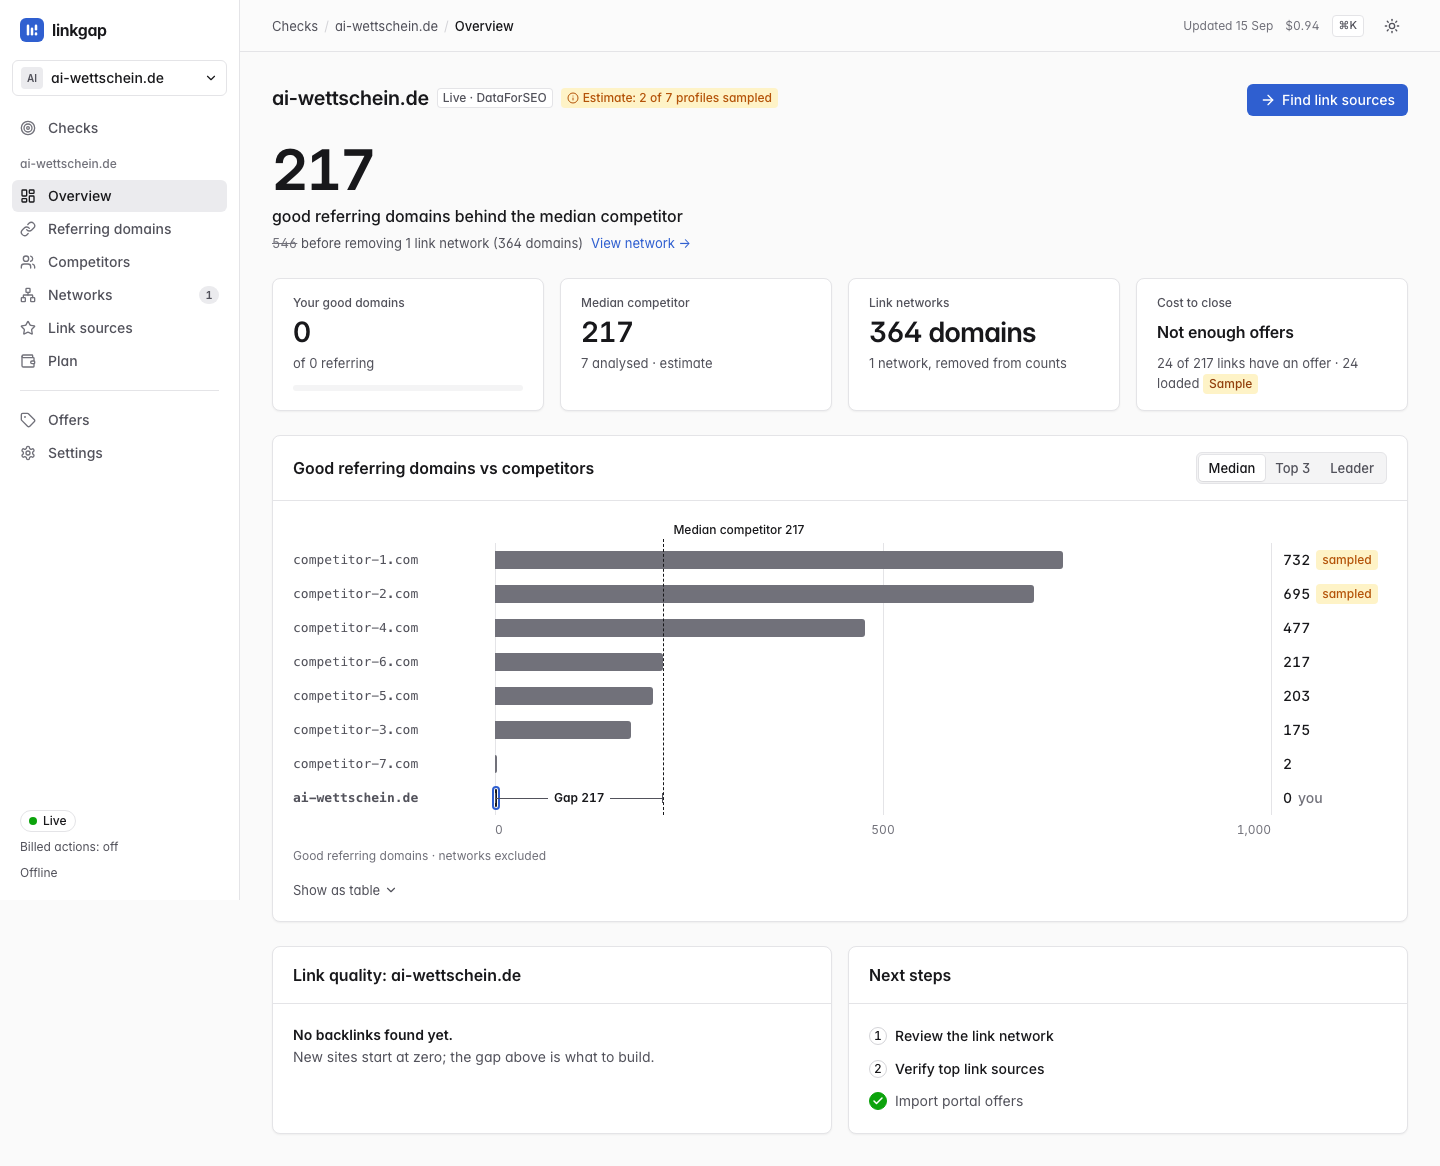
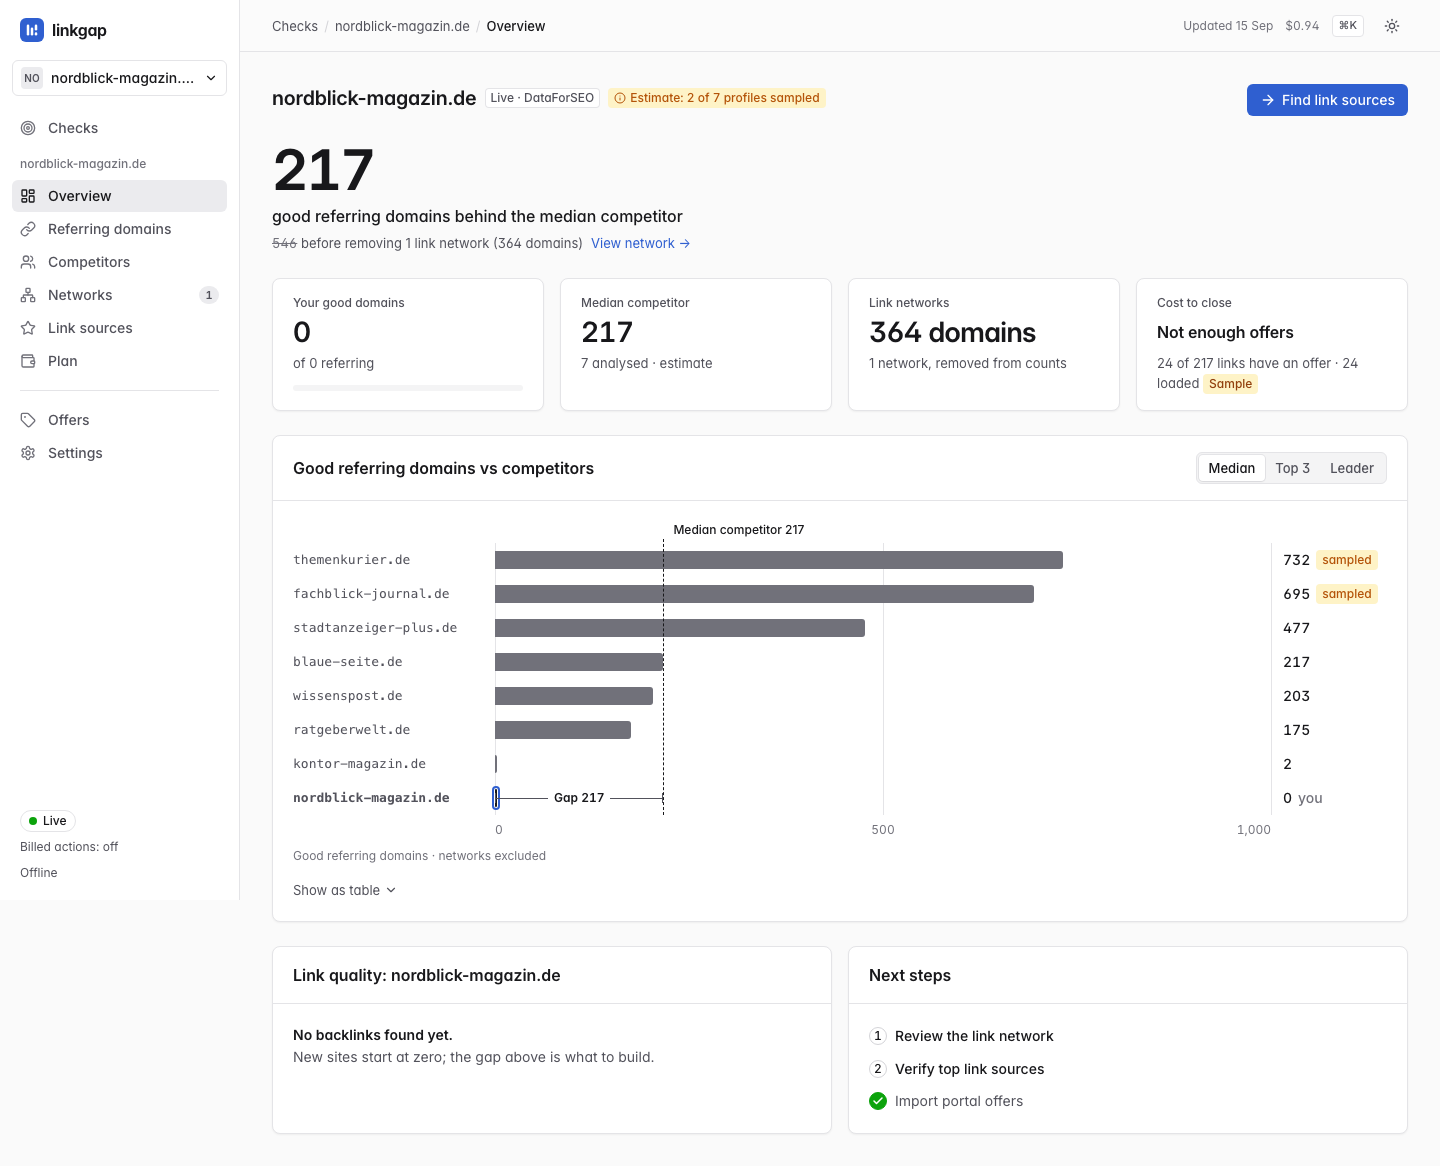
Anonymous case study: invented names, no niche wording
Claude-Session: https://claude.ai/code/session_012yyshPtUyHD4xxq4cyuqhN

diff --git a/index.html b/index.html
@@ -79,9 +79,9 @@
         </li>
       </ul>
       <p class="facts-caption">
-        Measured on the author's own site, ai&#8209;wettschein.de, a German football-predictions site
-        that launched on 10 September 2026 with zero backlinks. Every number on this page comes from
-        that run.
+        Measured on the author's own site, a real site that launched in September 2026 with zero backlinks.
+        Every number on this page comes from that run. Site and domain names in the screenshots are
+        fictional, so nobody's profile is on display here; nothing else was changed.
       </p>
 
       <figure class="shot shot-hero">
@@ -158,7 +158,7 @@
             <picture>
               <source srcset="img/checks-dark.png" media="(prefers-color-scheme: dark)">
               <img src="img/checks-light.png" width="1440" height="900" loading="lazy" decoding="async"
-                   alt="The linkgap checks screen with a four-step setup checklist at three of four, a new check card, and two project cards: ai-wettschein.de showing gap 217, 0 good domains, 7 competitors and a 1 link network warning, and lowveld-travel.de carrying an amber Sample badge.">
+                   alt="The linkgap checks screen with a four-step setup checklist at three of four, a new check card, and two project cards: nordblick-magazin.de showing gap 217, 0 good domains, 7 competitors and a 1 link network warning, and lowveld-travel.de carrying an amber Sample badge.">
             </picture>
           </figure>
         </li>
@@ -180,7 +180,7 @@
             <picture>
               <source srcset="img/domains-dark.png" media="(prefers-color-scheme: dark)">
               <img src="img/domains-light.png" width="1440" height="3041" loading="lazy" decoding="async"
-                   alt="The referring domains screen filtered to spam for competitor-1.com: a quality bar reading good 732 at 73 percent, weak 8, spam 260 at 26 percent, an amber badge saying sampled 1,000 of 29,095 referring domains, and a table where each row carries reason chips such as medium spam score 45 plus 25 and very low authority plus 20.">
+                   alt="The referring domains screen for fachblick-journal.de: a quality bar reading good 695 at 70 percent, weak 11, spam 294 at 29 percent, an amber badge saying sampled 1,000 of 25,216 referring domains, and a table where each row carries reason chips such as medium spam score 45 plus 25 and very low authority plus 20.">
             </picture>
           </figure>
         </li>
@@ -214,9 +214,9 @@
               <h3>Plan</h3>
               <p>
                 Give it a budget and it buys cheapest first from the offers you imported, skipping
-                domains that already link to you, with the gambling surcharge as its own column so
-                the total is what you actually pay. At €1,500 with gambling allowed, the sample offers
-                bought 13 links for €1,405, and the planner said plainly that 204 links were still
+                domains that already link to you, with any portal surcharge as its own column so
+                the total is what you actually pay. At €1,500 the sample offers
+                bought 21 links for €1,465, and the planner said plainly that 196 links were still
                 missing and only 16 offers matched at all.
               </p>
             </div>
@@ -224,8 +224,8 @@
           <figure class="shot">
             <picture>
               <source srcset="img/plan-dark.png" media="(prefers-color-scheme: dark)">
-              <img src="img/plan-light.png" width="1440" height="1224" loading="lazy" decoding="async"
-                   alt="The budget plan screen with a yellow banner reading sample data invented for the demo not real, a budget meter at €1,405 of €1,500 with €95 left, a links meter at 13 of 217 with 204 still missing, and a table of offers with base price, gambling surcharge and total, every row badged Sample.">
+              <img src="img/plan-light.png" width="1440" height="1544" loading="lazy" decoding="async"
+                   alt="The budget plan screen with a yellow banner reading sample data invented for the demo not real, a budget meter at €1,465 of €1,500 with €35 left, a links meter at 21 of 217 with 196 still missing, and a table of offers with base price, surcharge and total, every row badged Sample.">
             </picture>
           </figure>
           <p class="shot-note">
@@ -247,7 +247,7 @@
         <p class="section-lede">
           This is the part no backlink tool told the author about. A group of domains that link to
           the same few competitors and to nobody else measured, carrying repeated identical authority
-          values and no topical connection to football at all. linkgap flags the group, shows its
+          values and no topical connection to the subject at all. linkgap flags the group, shows its
           evidence, and stops counting it.
         </p>
       </header>
@@ -270,11 +270,11 @@
             </div>
             <div class="evi-row">
               <dt>Unrelated topics</dt>
-              <dd>Only <b>4 of 364</b> domain names mention football or betting. The rest are small businesses: a Taiwanese site, a Tunisian agency, a German door-technology firm.</dd>
+              <dd>Only <b>4 of 364</b> domain names have anything to do with the subject. The rest are unrelated small businesses in a dozen countries.</dd>
             </div>
             <div class="evi-row">
               <dt>Brand or empty anchors</dt>
-              <dd>100% of the anchors from these domains are empty, a bare site name, or the phrase &ldquo;ki fussball&nbsp;&hellip;&rdquo;.</dd>
+              <dd>100% of the anchors from these domains are empty or a bare site name.</dd>
             </div>
           </dl>
         </div>
@@ -283,9 +283,9 @@
           <h3>What it was worth</h3>
           <p class="ba-head"><span>Good referring domains</span><span>before &rarr; after</span></p>
           <ul class="ba-list" role="list">
-            <li><code>competitor-5.com</code><span><s>546</s> &rarr; <b>203</b></span></li>
-            <li><code>competitor-6.com</code><span><s>491</s> &rarr; <b>217</b></span></li>
-            <li><code>competitor-4.com</code><span><s>635</s> &rarr; <b>477</b></span></li>
+            <li><code>wissenspost.de</code><span><s>546</s> &rarr; <b>203</b></span></li>
+            <li><code>blaue-seite.de</code><span><s>491</s> &rarr; <b>217</b></span></li>
+            <li><code>stadtanzeiger-plus.de</code><span><s>635</s> &rarr; <b>477</b></span></li>
             <li class="ba-total"><span>Median baseline</span><span><s>546</s> &rarr; <b>217</b></span></li>
           </ul>
           <p class="ba-note">
@@ -374,7 +374,7 @@
         </li>
         <li>
           <h3>Sampled data on very large profiles</h3>
-          <p>For the market leader here, 1,000 of 29,095 referring domains were fetched, and not the top 1,000. linkgap labels those counts as estimates on every screen rather than quietly rounding up.</p>
+          <p>For the market leader here, 1,000 of 25,216 referring domains were fetched, and not the top 1,000. linkgap labels those counts as estimates on every screen rather than quietly rounding up.</p>
         </li>
         <li>
           <h3>No outreach inbox</h3>
@@ -466,7 +466,7 @@
       <b>linkgap</b>
     </span>
     <p class="footer-note">
-      Every figure on this page was measured on ai&#8209;wettschein.de in September 2026. Screens
+      Every figure on this page was measured on a real site in September 2026, with the names in the screenshots replaced by fictional ones. Screens
       showing invented offers are labelled sample, both here and in the app.
     </p>
     <a class="footer-mail" href="mailto:seeberger.solutions@gmail.com?subject=linkgap%20early%20access">seeberger.solutions@gmail.com</a>
